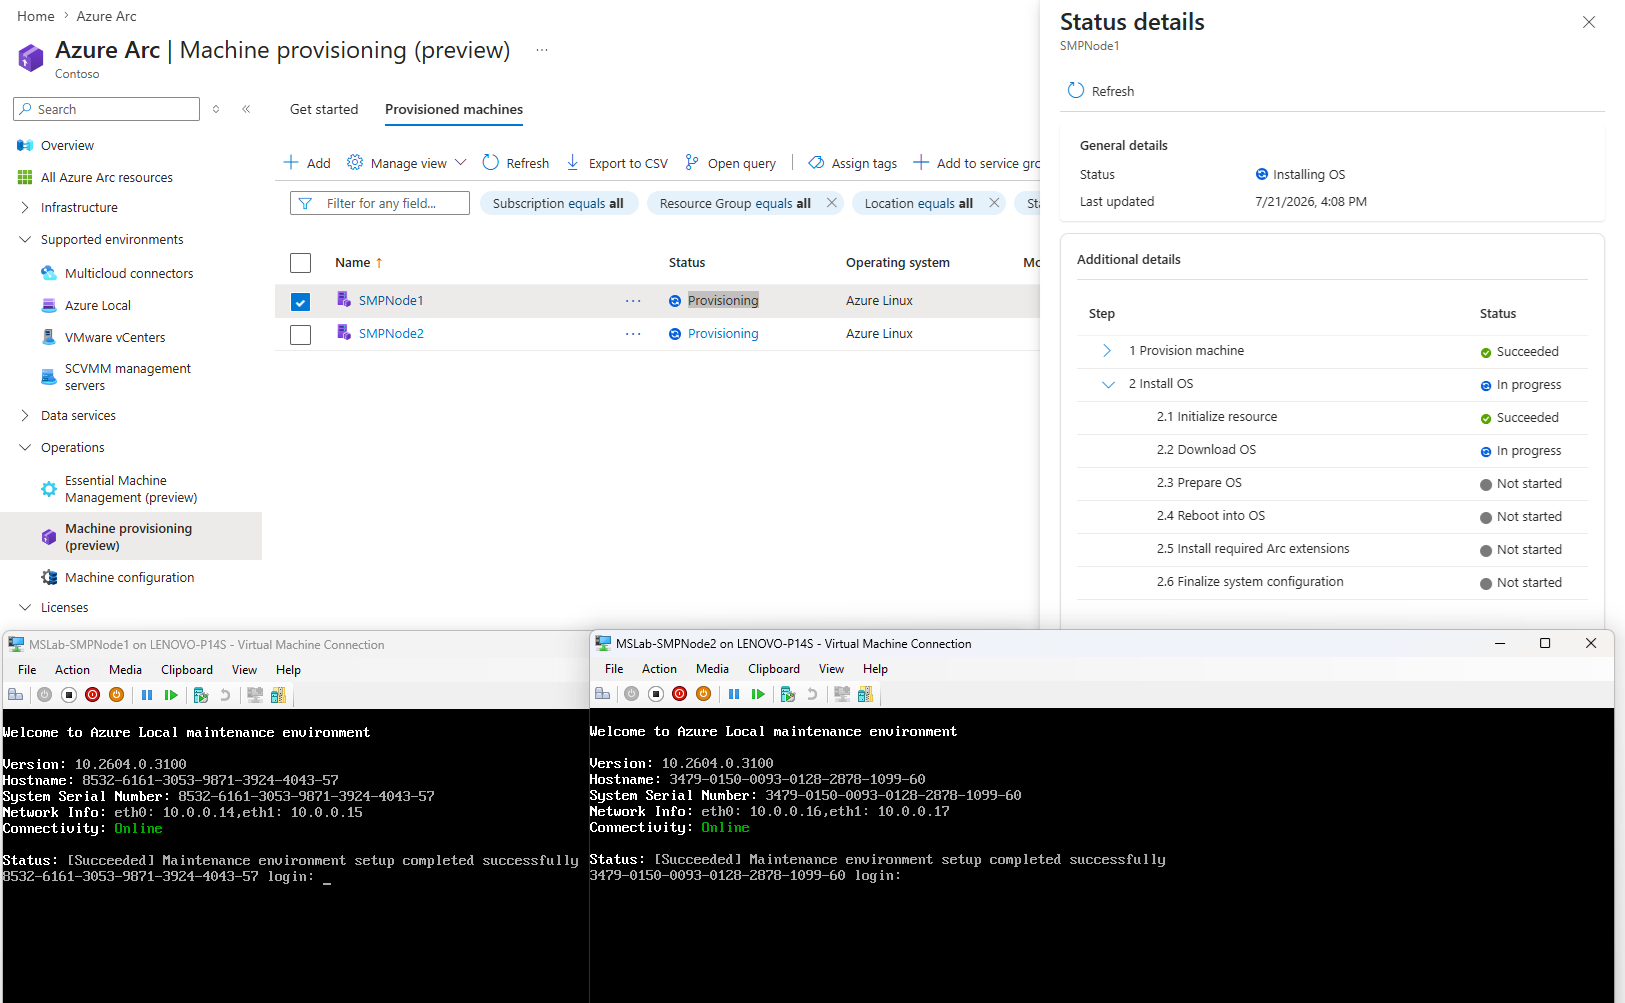
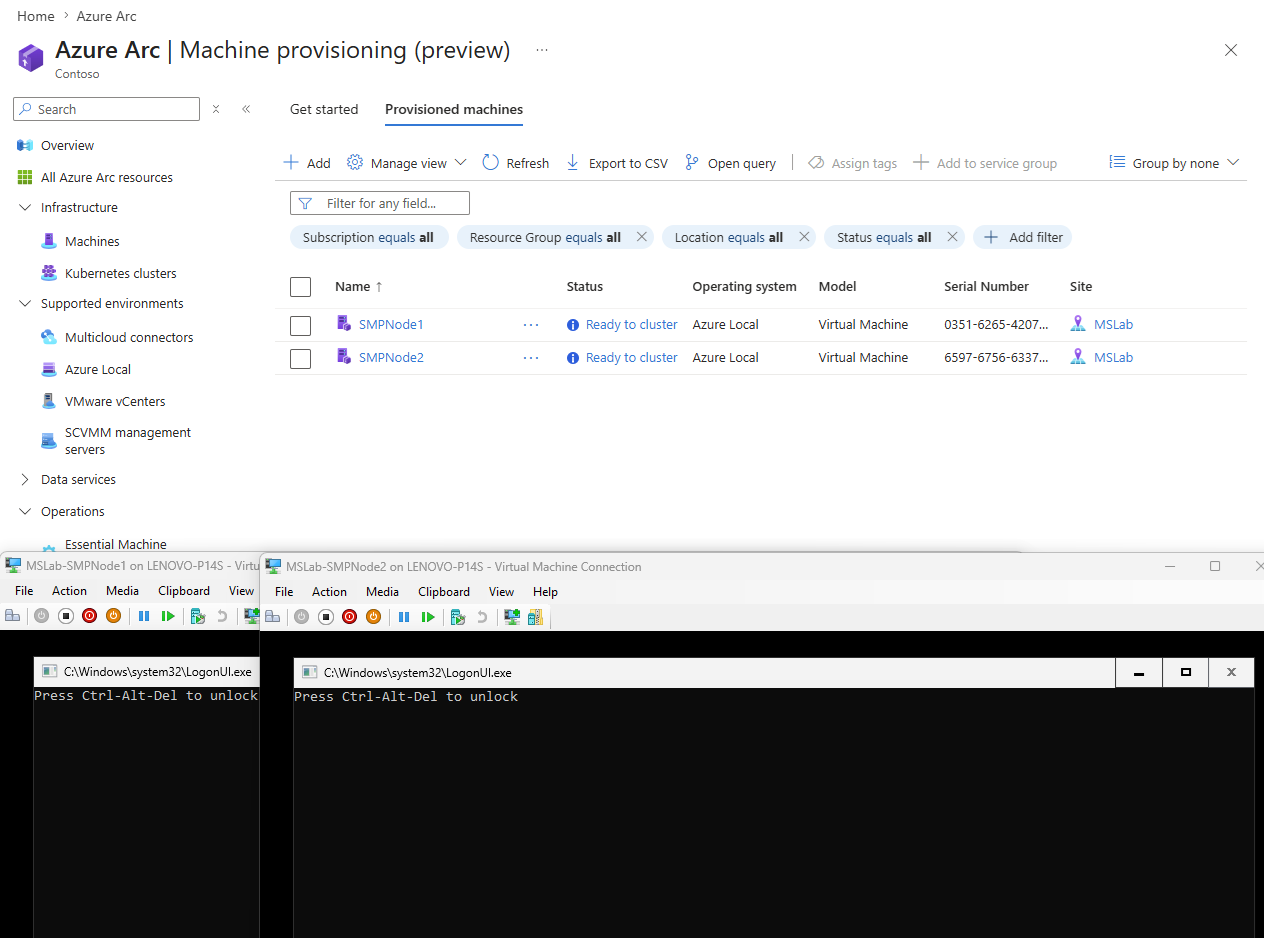
added final step

diff --git a/HandsOnLabs/05-SimplifiedMachineProvisioning/readme.md b/HandsOnLabs/05-SimplifiedMachineProvisioning/readme.md
@@ -141,3 +141,9 @@ Connect to SMPNode1/SMPNode2 and to Azure Portal (Arc Provisioning)[https://port
 ![](./media/edge07.png)
 
 ![](./media/edge08.png)
+
+![](./media/edge09.png)
+
+### Task03 - Create new cluster
+
+You can use steps from [02-Deploying Azure Local](../../HandsOnLabs/02-DeployingAzureLocal/readme.md)
